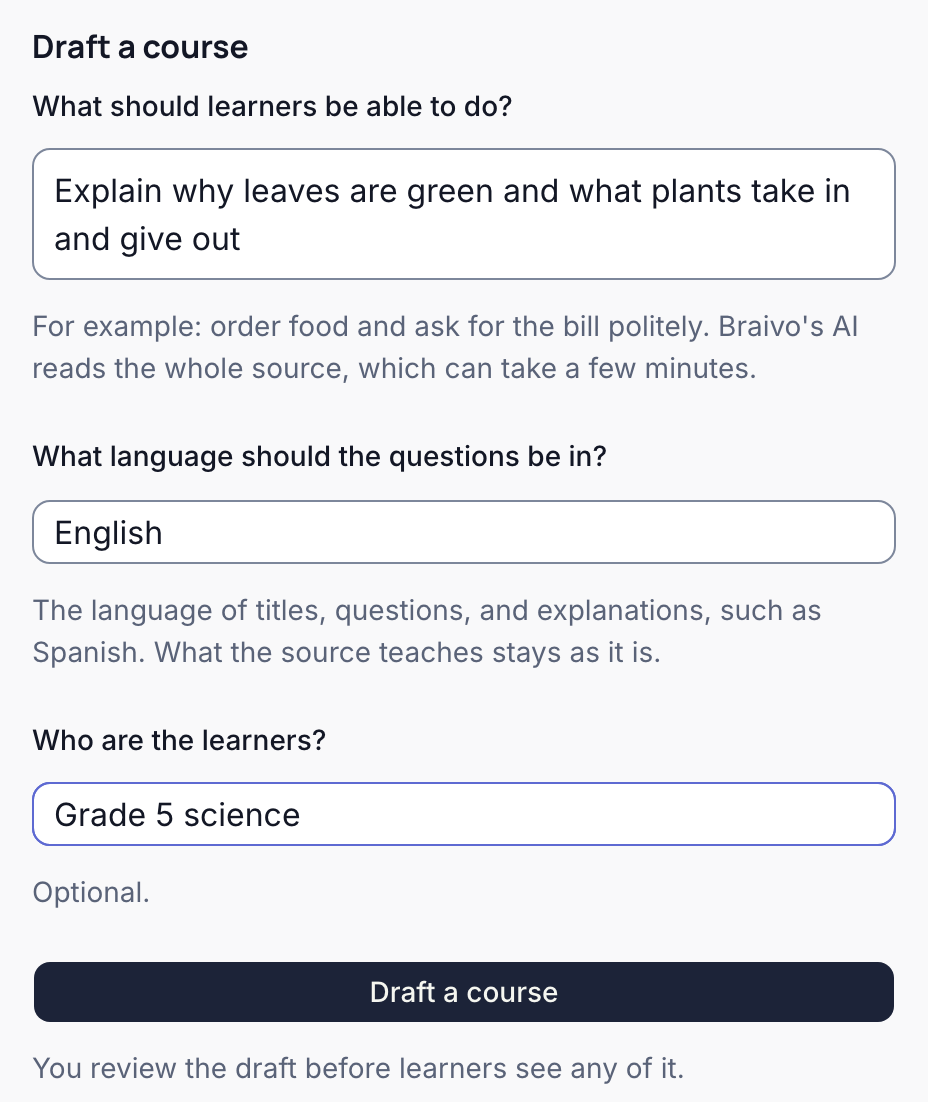
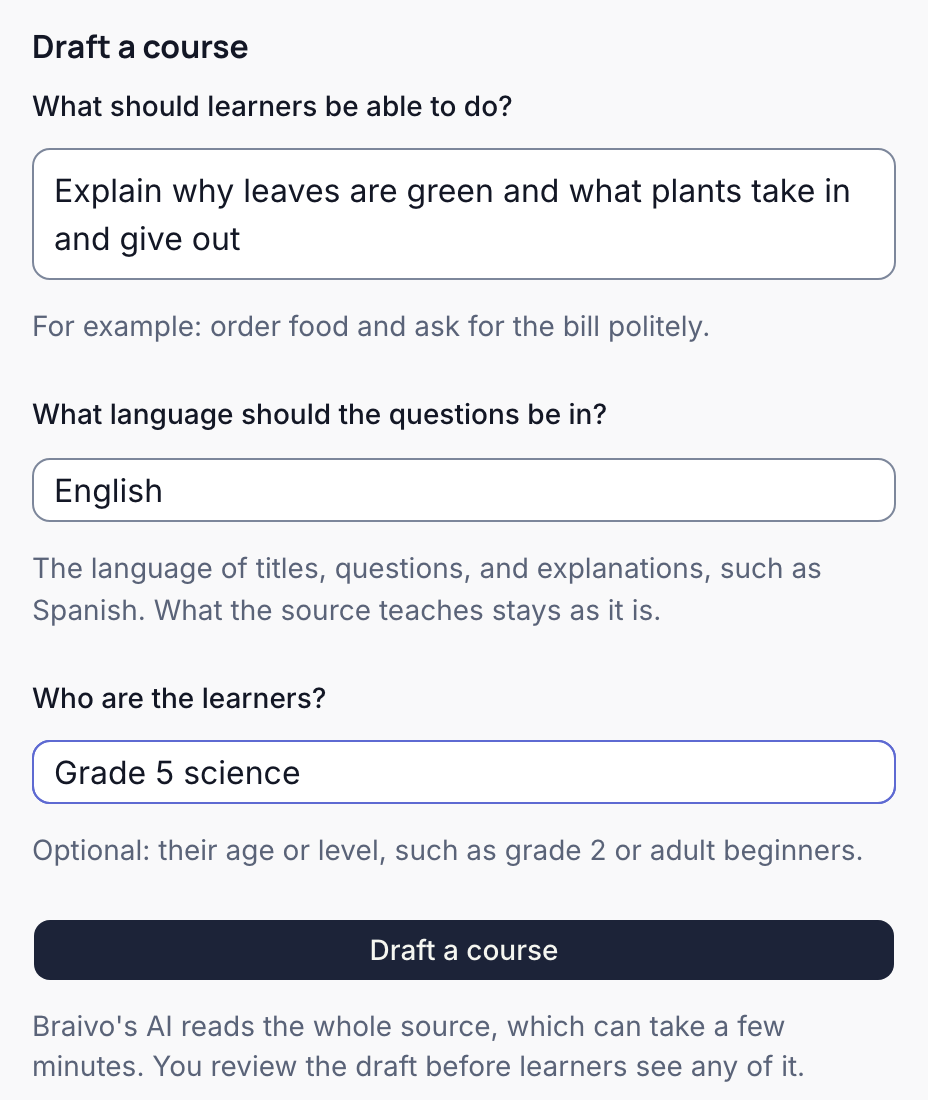
fix(console): ask the draft form's audience for age or level, and say how long drafting takes beside its button
The audience's placeholder, "Grade 2, English speakers learning Spanish", was cut off at a phone's width and taught teachers to name languages there, which the language field now asks, and an audience naming two languages drew drafts into the wrong one (ADR 0029). Its hint now gives the example: their age or level, such as grade 2 or adult beginners. How long drafting takes was said under the goal, about pressing the button; it now comes before the review note beside the button, where the status line also says it while drafting. The guide's draft-form screenshot is regenerated.

diff --git a/apps/console/test/drafting.test.tsx b/apps/console/test/drafting.test.tsx
@@ -105,10 +105,16 @@ describe("the console", () => {
     expect(goal.maxLength).toBe(300);
     expect(goal.getAttribute("aria-describedby")).toBeTruthy();
     expect(document.getElementById(goal.getAttribute("aria-describedby")!)?.textContent).toBe(
-      "For example: order food and ask for the bill politely. Braivo's AI reads the whole source, which can take a few minutes.",
+      "For example: order food and ask for the bill politely.",
     );
-    // Optional beside it, with no default put in its place.
-    expect(screen.getByLabelText<HTMLInputElement>("Who are the learners?").required).toBe(false);
+    // Optional beside it, with no default put in its place, and asking for age
+    // or level, never the language the field above asks.
+    const audience = screen.getByLabelText<HTMLInputElement>("Who are the learners?");
+    expect(audience.required).toBe(false);
+    expect(audience.placeholder).toBe("");
+    expect(document.getElementById(audience.getAttribute("aria-describedby")!)?.textContent).toBe(
+      "Optional: their age or level, such as grade 2 or adult beginners.",
+    );
 
     // Spaces pass `required`, so the form's own handler refuses them.
     fireEvent.change(goal, { target: { value: "   " } });
@@ -332,8 +338,9 @@ describe("the console", () => {
     const form = button.closest("form")!;
     // Present from the start, so what it says next is announced.
     const status = within(form).getByRole("status");
-    expect(status.textContent).toBe("You review the draft before learners see any of it.");
-    expect(within(form).getByText(/reads the whole source.*a few minutes/)).toBeTruthy();
+    expect(status.textContent).toBe(
+      "Braivo's AI reads the whole source, which can take a few minutes. You review the draft before learners see any of it.",
+    );
     fireEvent.change(screen.getByLabelText(GOAL_LABEL), { target: { value: GOAL } });
     button.focus();
 

diff --git a/apps/console/routes/_signed-in/$organizationSlug/sources/$sourceId.tsx b/apps/console/routes/_signed-in/$organizationSlug/sources/$sourceId.tsx
@@ -343,8 +343,7 @@ function DraftCourse(props: { source: Source }) {
             aria-describedby={`${id}-goal-hint`}
           />
           <FieldDescription id={`${id}-goal-hint`}>
-            For example: order food and ask for the bill politely. Braivo's AI reads the whole
-            source, which can take a few minutes.
+            For example: order food and ask for the bill politely.
           </FieldDescription>
         </Field>
         <Field>
@@ -382,10 +381,13 @@ function DraftCourse(props: { source: Source }) {
             maxLength={MAX_AUDIENCE}
             readOnly={drafting}
             defaultValue={brief?.audience}
-            placeholder="Grade 2, English speakers learning Spanish"
             aria-describedby={`${id}-audience-hint`}
           />
-          <FieldDescription id={`${id}-audience-hint`}>Optional.</FieldDescription>
+          {/* Their age or level, not their language, which the field above asks:
+              an audience naming two languages drew drafts into the wrong one (ADR 0029). */}
+          <FieldDescription id={`${id}-audience-hint`}>
+            Optional: their age or level, such as grade 2 or adult beginners.
+          </FieldDescription>
         </Field>
         {error && (
           <Alert variant="destructive">
@@ -402,7 +404,7 @@ function DraftCourse(props: { source: Source }) {
           <MutedText role="status">
             {drafting
               ? "Braivo's AI is drafting the course, which can take a few minutes…"
-              : "You review the draft before learners see any of it."}
+              : "Braivo's AI reads the whole source, which can take a few minutes. You review the draft before learners see any of it."}
           </MutedText>
         </Field>
       </FieldGroup>

diff --git a/tooling/docs-screenshots/capture.ts b/tooling/docs-screenshots/capture.ts
@@ -360,7 +360,7 @@ async function firstCourse(
     "Draft a course",
   );
   const draft = page.getByRole("button", { name: "Draft a course" });
-  const promise = page.getByText("You review the draft before learners see any of it.");
+  const promise = page.getByText(/You review the draft before learners see any of it\./);
   await region(page, shot("3-draft"), drafting, promise, draft);
   await draft.click();
 
